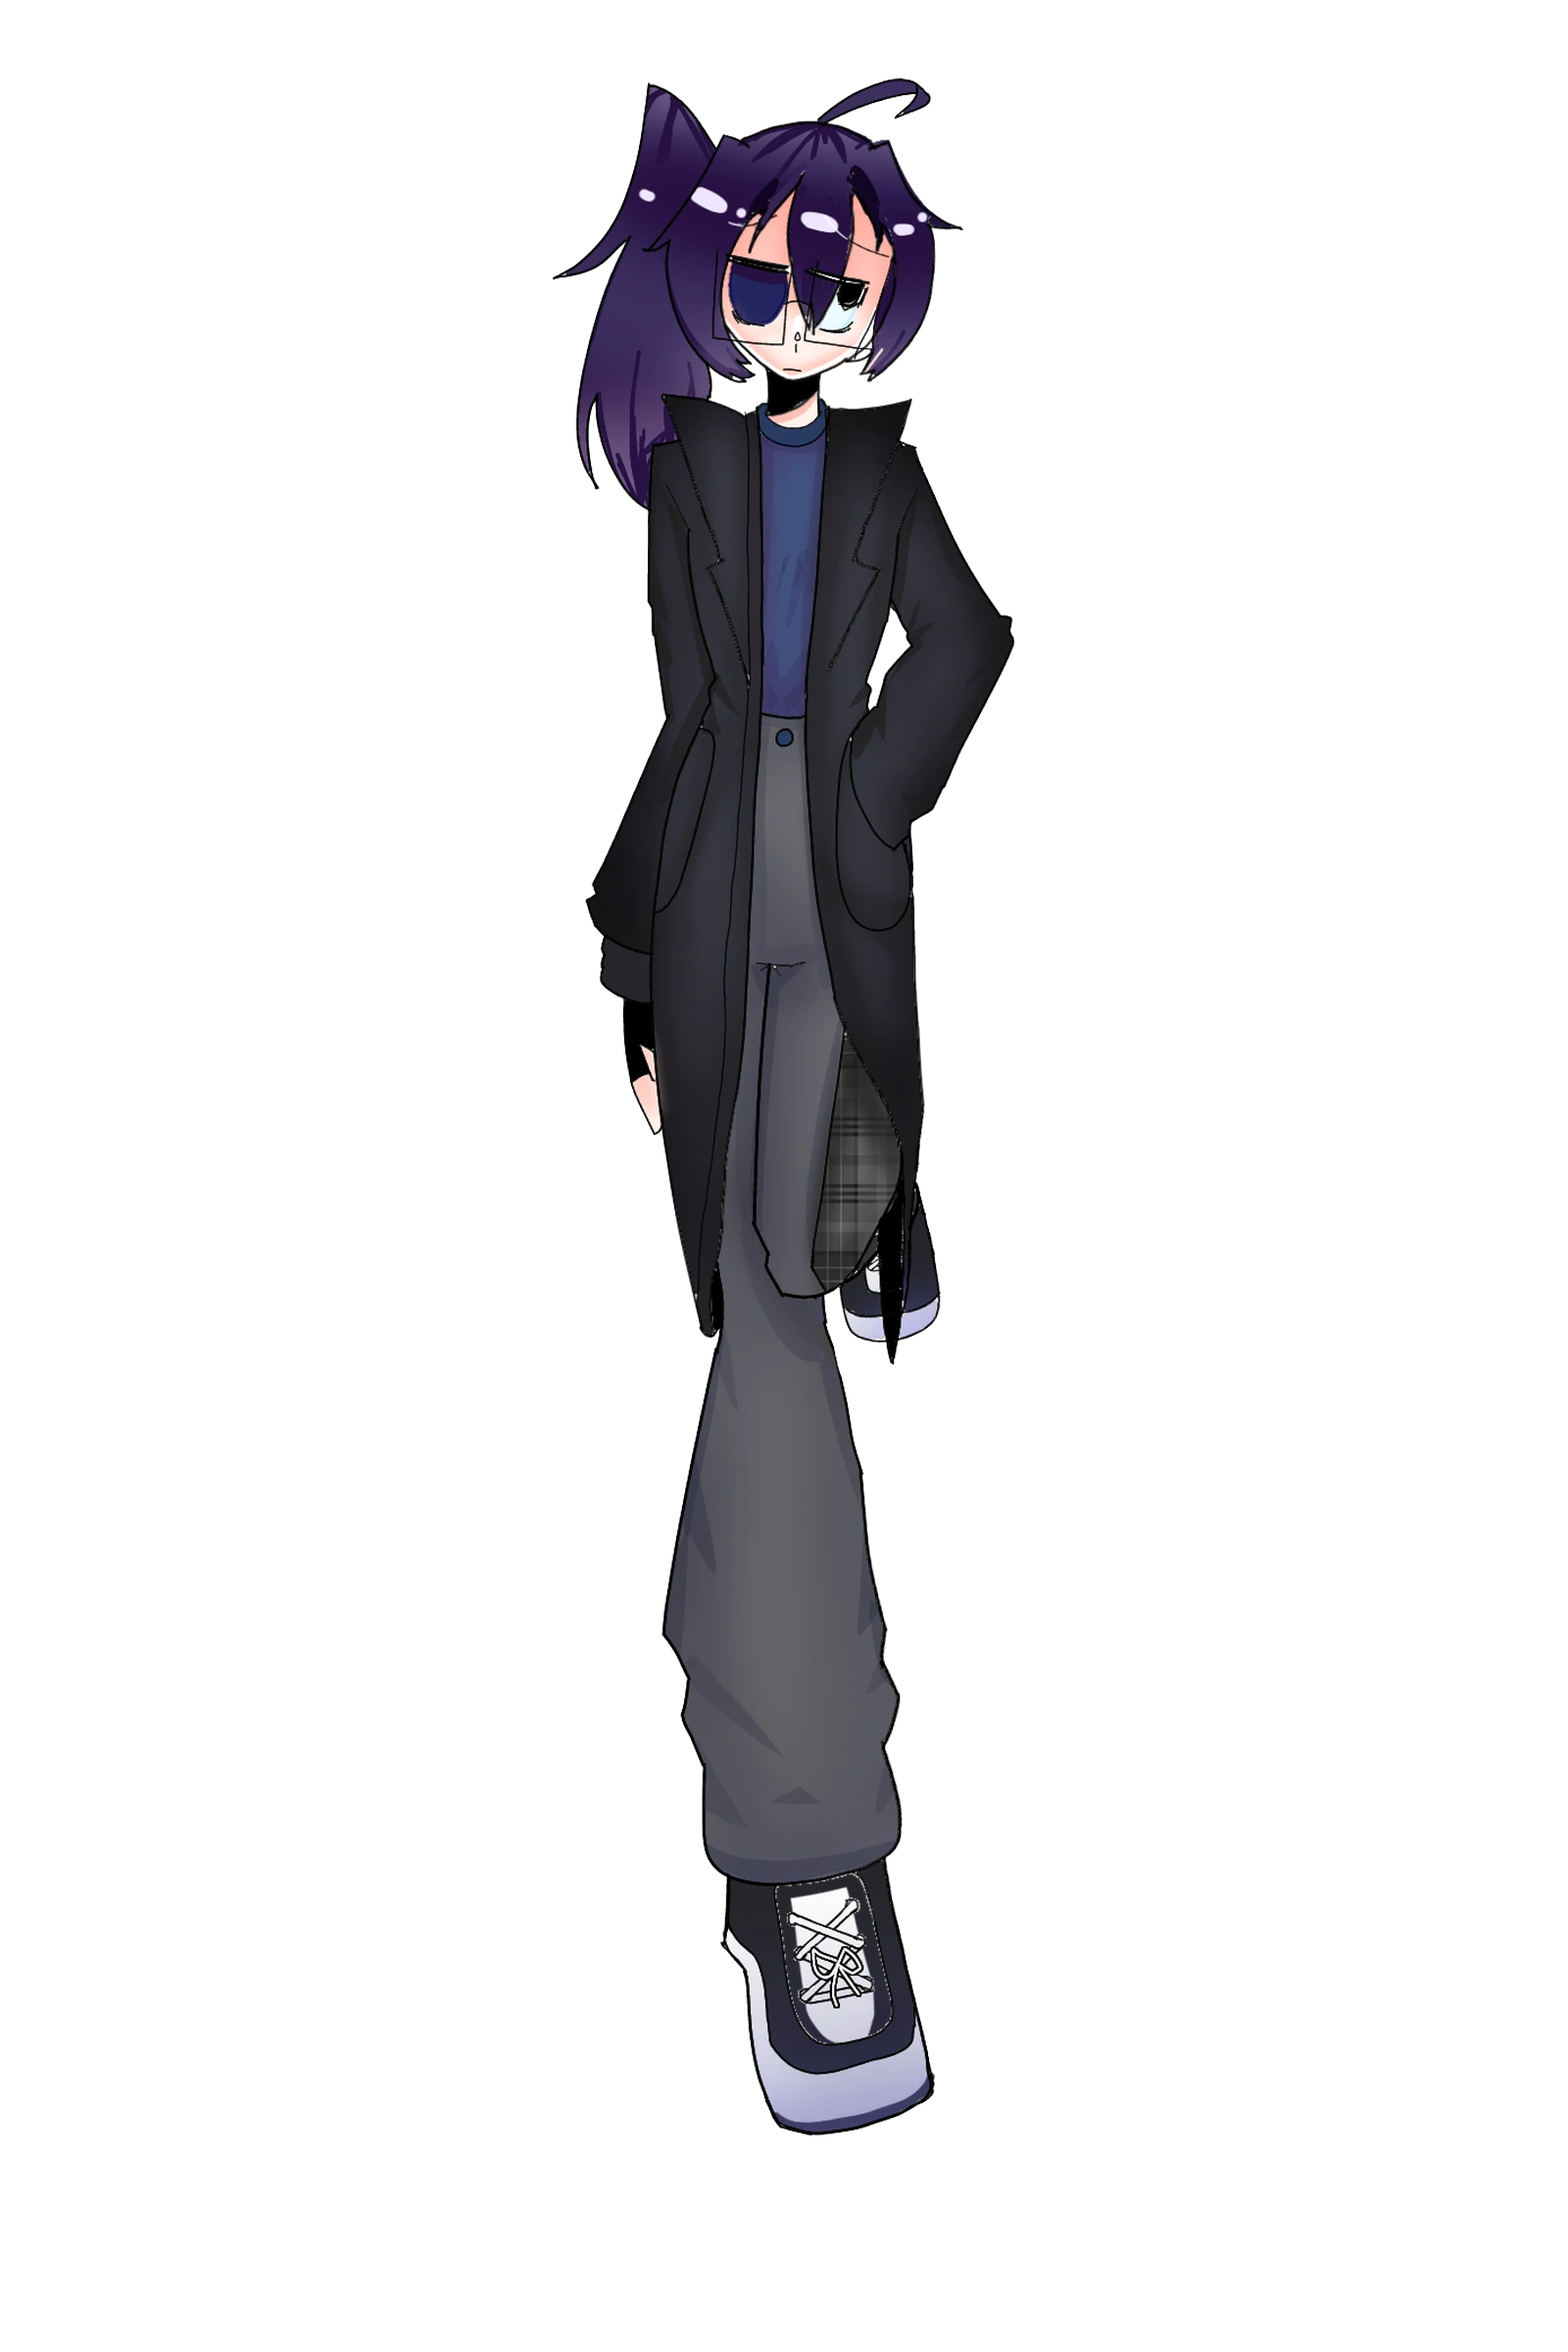
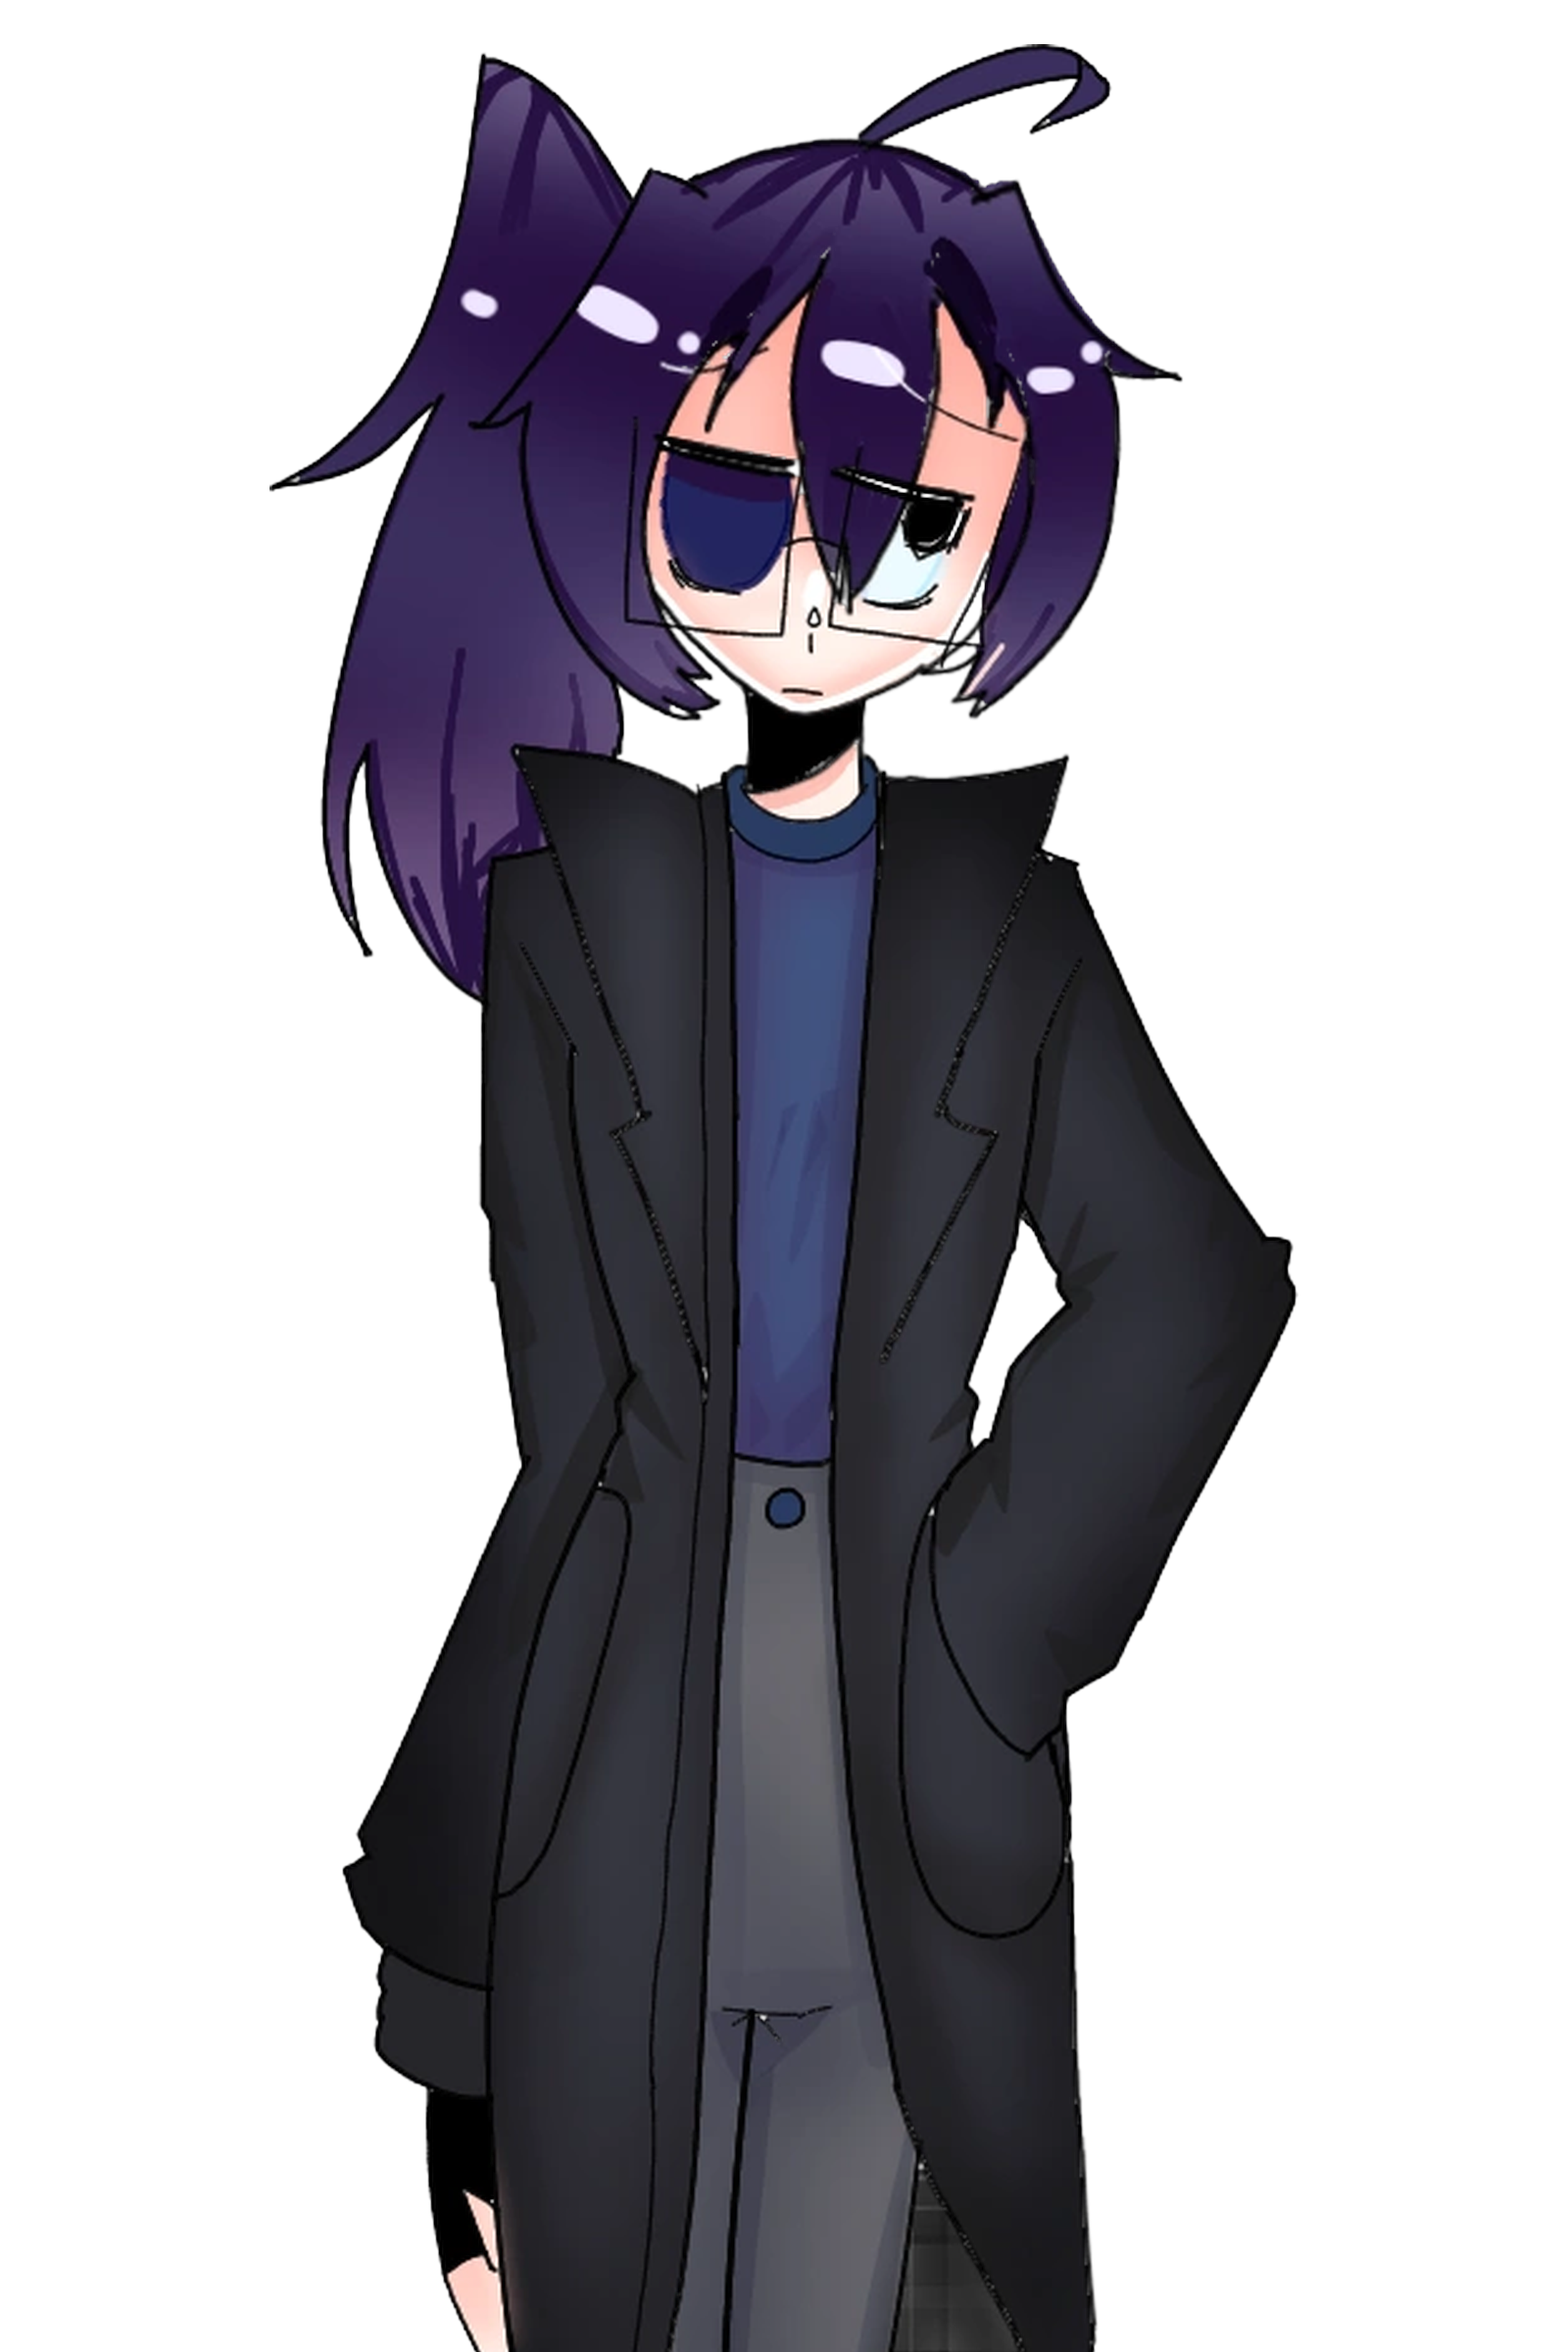
fix(voices): padronizar enquadramento visual, proporcoes e textos do card do Kodama Kito

diff --git a/app/i18n/translations.ts b/app/i18n/translations.ts
@@ -384,7 +384,7 @@ export const translations: Record<Language, TranslationSchema> = {
         image: '/kodama-kito.png',
         accent: '#7058a6',
         meta: '18ª Geração · desde 2026',
-        detail: 'Voz masculina brasileira de 18ª geração criada por ZONERYTH para UTAU, com múltiplos idiomas e timbres expressivos que abrangem de tons suaves a potentes.',
+        detail: 'Voz brasileira de 18ª geração com múltiplos idiomas e timbres expressivos que abrangem de tons suaves a potentes. Criado por ZONERYTH.',
         tags: ['UTAU', 'OpenUTAU', 'Multilíngue'],
         profile: 'https://vsynthbr.fandom.com/pt-br/wiki/Kodama_Kito',
         owner: 'https://www.youtube.com/@ZoneLoid',
@@ -395,7 +395,7 @@ export const translations: Record<Language, TranslationSchema> = {
           engines: 'UTAU · OpenUTAU',
           languages: 'Português · Japonês · Inglês',
           range: 'C2 ~ B5',
-          description: 'Criado e gravado por ZONERYTH, Kodama Kito (児玉キト) possui bancos em formatos CVVC, VCV e CVC BRAPA para o português brasileiro, além de japonês e inglês. Seu V2 conta com 5 Voice Colors (Dark, Mature, Power, Sweet e Weak), além de bancos temáticos como o -tired-.',
+          description: 'Voz brasileira integrante da 18ª geração de bancos de voz de UTAU. Criado e gravado por ZONERYTH, conta com bancos em múltiplos formatos (CVVC, VCV e CVC BRAPA) para português brasileiro, japonês e inglês. Seu V2 dispõe de 5 Voice Colors (Dark, Mature, Power, Sweet, Weak) e bancos temáticos como o -tired-.',
           downloadUrl: 'https://vsynthbr.fandom.com/pt-br/wiki/Kodama_Kito#Downloads',
         },
       },
@@ -670,7 +670,7 @@ export const translations: Record<Language, TranslationSchema> = {
         image: '/kodama-kito.png',
         accent: '#7058a6',
         meta: '18th Generation · since 2026',
-        detail: '18th generation Brazilian male voice created by ZONERYTH for UTAU, featuring multiple languages and expressive voice colors ranging from soft to powerful tones.',
+        detail: '18th generation Brazilian voice with multiple languages and expressive voice colors ranging from soft to powerful tones. Created by ZONERYTH.',
         tags: ['UTAU', 'OpenUTAU', 'Multilingual'],
         profile: 'https://vsynthbr.fandom.com/pt-br/wiki/Kodama_Kito',
         owner: 'https://www.youtube.com/@ZoneLoid',
@@ -681,7 +681,7 @@ export const translations: Record<Language, TranslationSchema> = {
           engines: 'UTAU · OpenUTAU',
           languages: 'Portuguese · Japanese · English',
           range: 'C2 ~ B5',
-          description: 'Created and voiced by ZONERYTH, Kodama Kito (児玉キト) features voicebanks in CVVC, VCV, and CVC BRAPA for Brazilian Portuguese, alongside Japanese and English. His V2 release includes 5 Voice Colors (Dark, Mature, Power, Sweet, Weak) as well as the special -tired- soft bank.',
+          description: '18th generation Brazilian UTAU voicebank created and voiced by ZONERYTH. Features voicebanks in CVVC, VCV, and CVC BRAPA for Brazilian Portuguese, alongside Japanese and English. Includes 5 Voice Colors (Dark, Mature, Power, Sweet, Weak) and special thematic banks like -tired-.',
           downloadUrl: 'https://vsynthbr.fandom.com/pt-br/wiki/Kodama_Kito#Downloads',
         },
       },
@@ -956,7 +956,7 @@ export const translations: Record<Language, TranslationSchema> = {
         image: '/kodama-kito.png',
         accent: '#7058a6',
         meta: 'الجيل الثامن عشر · منذ 2026',
-        detail: 'صوت ذكوري برازيلي من الجيل 18 من ابتكار ZONERYTH لبرنامج UTAU، يدعم لغات متعددة وطبقات تعبيرية متنوعة من النغمات الهادئة إلى القوية.',
+        detail: 'صوت برازيلي من الجيل 18 متعدد اللغات مع تلوينات صوتية معبرة تتراوح بين النغمات الهادئة والقوية. من ابتكار ZONERYTH.',
         tags: ['UTAU', 'OpenUTAU', 'متعدد اللغات'],
         profile: 'https://vsynthbr.fandom.com/pt-br/wiki/Kodama_Kito',
         owner: 'https://www.youtube.com/@ZoneLoid',
@@ -967,7 +967,7 @@ export const translations: Record<Language, TranslationSchema> = {
           engines: 'UTAU · OpenUTAU',
           languages: 'البرتغالية · اليابانية · الإنجليزية',
           range: 'C2 ~ B5',
-          description: 'صوت غنائي من ابتكار وتسجيل ZONERYTH، يتميز Kodama Kito (児玉キト) ببنوك صوتية بصيغ CVVC و VCV و CVC BRAPA للبرتغالية البرازيلية إلى جانب الإنجليزية واليابانية، مع 5 تلوينات صوتية (Dark, Mature, Power, Sweet, Weak) وبنك -tired- الناعم.',
+          description: 'صوت غنائي برازيلي من الجيل الثامن عشر لـ UTAU، من تسجيل وابتكار ZONERYTH. يتميز ببنوك صوتية بصيغ CVVC و VCV و CVC BRAPA للبرتغالية البرازيلية إلى جانب الإنجليزية واليابانية، مع 5 تلوينات صوتية وبنك -tired- الخاص.',
           downloadUrl: 'https://vsynthbr.fandom.com/pt-br/wiki/Kodama_Kito#Downloads',
         },
       },
@@ -1242,7 +1242,7 @@ export const translations: Record<Language, TranslationSchema> = {
         image: '/kodama-kito.png',
         accent: '#7058a6',
         meta: '18-е поколение · с 2026',
-        detail: 'Бразильский мужской голос 18-го поколения, созданный ZONERYTH для UTAU, поддерживающий несколько языков и выразительные голосовые тембры от мягких до мощных.',
+        detail: 'Бразильский голос 18-го поколения с поддержкой нескольких языков и выразительными голосовыми тембрами от мягких до мощных. Создан ZONERYTH.',
         tags: ['UTAU', 'OpenUTAU', 'Многоязычный'],
         profile: 'https://vsynthbr.fandom.com/pt-br/wiki/Kodama_Kito',
         owner: 'https://www.youtube.com/@ZoneLoid',
@@ -1253,7 +1253,7 @@ export const translations: Record<Language, TranslationSchema> = {
           engines: 'UTAU · OpenUTAU',
           languages: 'Португальский · Японский · Английский',
           range: 'C2 ~ B5',
-          description: 'Созданный и записанный ZONERYTH, Kodama Kito (児玉キト) включает голосовые базы в форматах CVVC, VCV и CVC BRAPA для бразильского португальского, а также японского и английского языков. Версия V2 включает 5 тембров (Dark, Mature, Power, Sweet, Weak) и мягкий банк -tired-.',
+          description: 'Бразильский войсбанк 18-го поколения для UTAU, созданный и записанный ZONERYTH. Включает библиотеки в форматах CVVC, VCV и CVC BRAPA для бразильского португальского, японского и английского, 5 голосовых окрасок (Voice Colors) и тематический банк -tired-.',
           downloadUrl: 'https://vsynthbr.fandom.com/pt-br/wiki/Kodama_Kito#Downloads',
         },
       },
@@ -1528,7 +1528,7 @@ export const translations: Record<Language, TranslationSchema> = {
         image: '/kodama-kito.png',
         accent: '#7058a6',
         meta: '第18世代 · 2026年〜',
-        detail: 'ZONERYTHによって制作された第18世代UTAU向けブラジル男性音源。穏やかなトーンからパワフルな歌唱まで多彩な表情（Voice Colors）と多言語に対応。',
+        detail: '穏やかなトーンからパワフルな歌唱まで多彩な表情（Voice Colors）と多言語に対応した第18世代ブラジル音源。ZONERYTH制作。',
         tags: ['UTAU', 'OpenUTAU', '多言語対応'],
         profile: 'https://vsynthbr.fandom.com/pt-br/wiki/Kodama_Kito',
         owner: 'https://www.youtube.com/@ZoneLoid',
@@ -1539,7 +1539,7 @@ export const translations: Record<Language, TranslationSchema> = {
           engines: 'UTAU · OpenUTAU',
           languages: 'ポルトガル語 · 日本語 · 英語',
           range: 'C2 ~ B5',
-          description: 'ZONERYTHによって制作・録音されたKodama Kito（児玉キト）。CVVC、VCV、そしてブラジルポルトガル語向けのCVC BRAPA、日本語、英語の多彩な音源を展開。V2では5種類のVoice Colors（Dark, Mature, Power, Sweet, Weak）やソフト音源「-tired-」を搭載。',
+          description: 'ZONERYTHによって制作・録音された第18世代UTAUブラジル音源。CVVC、VCV、CVC BRAPA（伯葡語）、日本語、英語の多彩な音源を展開。V2では5種類のVoice Colors（Dark, Mature, Power, Sweet, Weak）やソフト音源「-tired-」を搭載。',
           downloadUrl: 'https://vsynthbr.fandom.com/pt-br/wiki/Kodama_Kito#Downloads',
         },
       },
